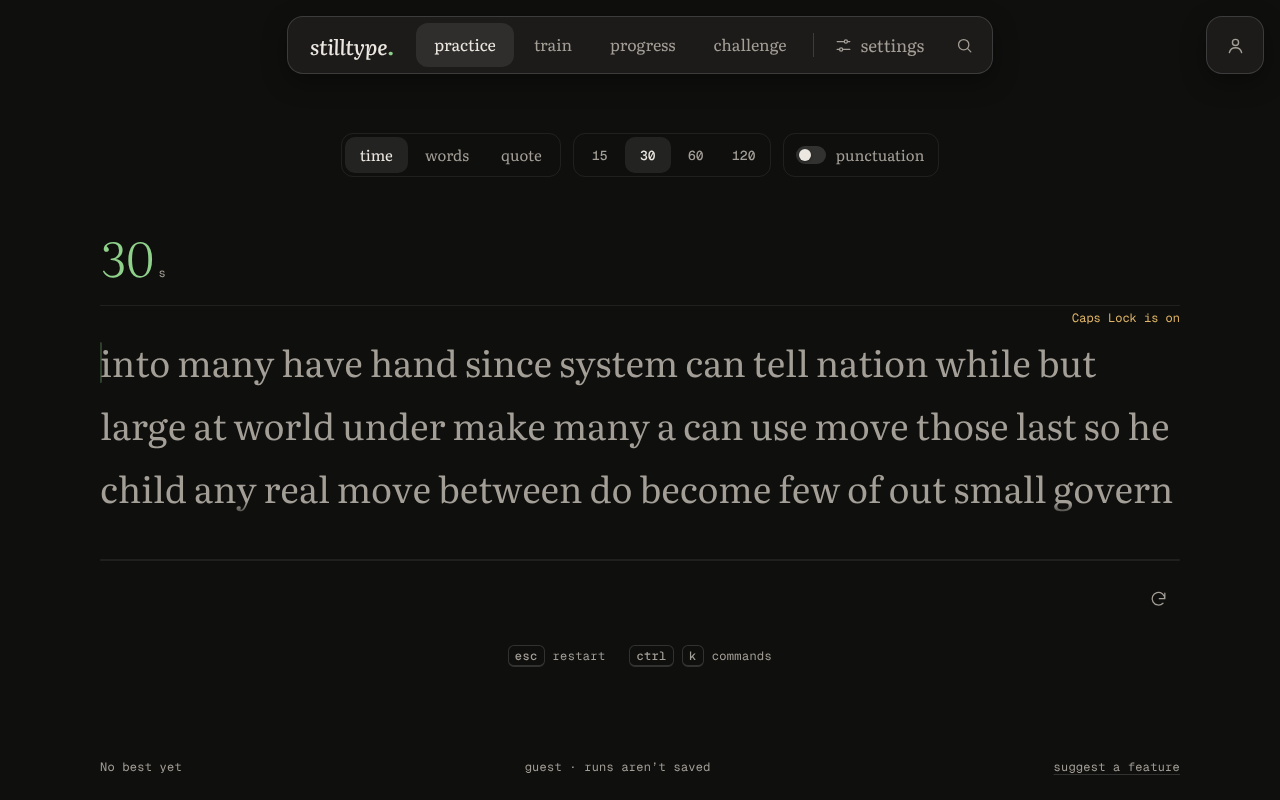
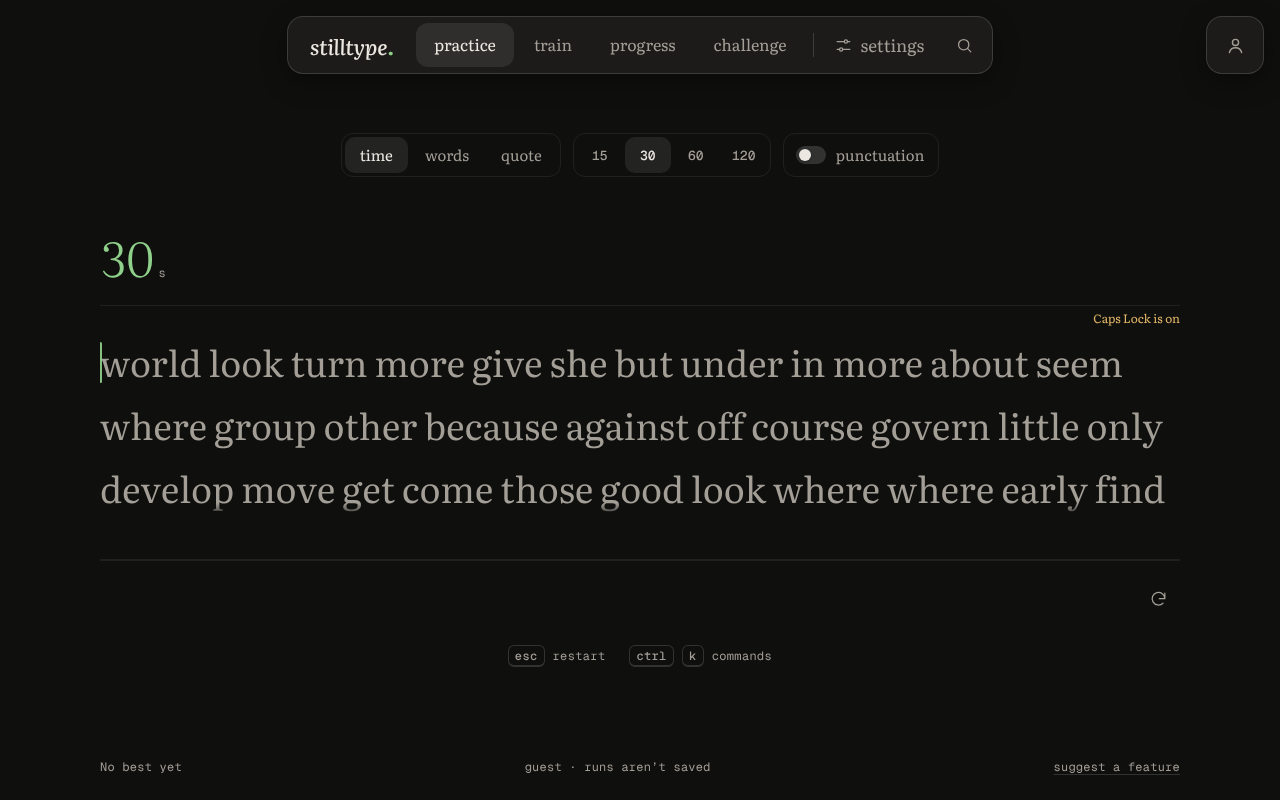
Set the Caps Lock warning in Literata and keep it still mid-run
The warning is a readable sentence, so it uses the serif family at the same
size; while a run is in progress it appears and leaves without a fade. The
spec only rewrites the committed screenshots when SCREENSHOTS is set.

Claude-Session: https://claude.ai/code/session_01SaBNo9RHRaTR8cCUjK1iLD

diff --git a/e2e/caps-lock-warning.spec.js b/e2e/caps-lock-warning.spec.js
@@ -17,6 +17,7 @@ test('shows while Caps Lock is on, stays during a run, hides once it is off', as
   await capsKey(page, 'keydown', true);
   await expect(warning).toBeVisible();
   await expect(warning).toHaveText('Caps Lock is on');
+  await expect(warning).toHaveCSS('font-family', /^"?Literata/);
   await expect(page.locator('#announcement')).toHaveText('Caps Lock is on');
   expect(await wrap.boundingBox()).toEqual(before);
 
@@ -25,6 +26,7 @@ test('shows while Caps Lock is on, stays during a run, hides once it is off', as
   await capsKey(page, 'keyup', true);
   await expect(warning).toBeVisible();
   await expect(warning).toHaveCSS('opacity', '1');
+  await expect(warning).toHaveCSS('transition-duration', '0s');
 
   await capsKey(page, 'keyup', false);
   await expect(warning).toBeHidden();
@@ -40,7 +42,12 @@ test('blurring the typing field hides the warning', async ({ page }) => {
   await expect(page.locator('#caps-warning')).toBeHidden();
 });
 
-test('screenshots', async ({ page }) => {
+// Committed docs are only rewritten on request (SCREENSHOTS=1); normal runs write to the test output dir.
+const shotPath = (testInfo, name) => (process.env.SCREENSHOTS
+  ? `docs/screenshots/caps-lock-warning/${name}.png`
+  : testInfo.outputPath(`${name}.png`));
+
+test('screenshots', async ({ page }, testInfo) => {
   await page.setViewportSize({ width: 1280, height: 800 });
   for (const scheme of ['dark', 'light']) {
     await page.emulateMedia({ colorScheme: scheme });
@@ -49,6 +56,6 @@ test('screenshots', async ({ page }) => {
     await capsKey(page, 'keydown', true);
     await expect(page.locator('#caps-warning')).toBeVisible();
     await page.waitForTimeout(300);
-    await page.screenshot({ path: `docs/screenshots/caps-lock-warning/warning-${scheme}.png` });
+    await page.screenshot({ path: shotPath(testInfo, `warning-${scheme}`) });
   }
 });

diff --git a/src/styles.css b/src/styles.css
@@ -885,14 +885,15 @@ body[data-running="true"] :is(.dock-zone, .corner, .practice-controls, .quote-op
 body[data-running="true"] :is(.dock, .corner, .practice-controls, .quote-options, .shortcut-row, .site-footer):not(:focus-within) { pointer-events: none; }
 
 /* Caps Lock warning: sits in the gap under the measure rule, so showing it moves nothing.
-   It is a warning, not chrome, so the running fade leaves it alone. */
+   It is a warning, not chrome, so the running fade leaves it alone; it is a readable
+   sentence, so it is set in Literata. */
 .caps-warning {
   position: absolute;
   top: calc(100% + var(--space-1));
   right: 0;
   margin: 0;
   color: var(--warning);
-  font: var(--text-mono)/1.5 var(--font-mono);
+  font: var(--text-mono)/1.5 var(--font-serif);
   white-space: nowrap;
   pointer-events: none;
   opacity: 0;
@@ -905,6 +906,9 @@ body[data-running="true"] :is(.dock, .corner, .practice-controls, .quote-options
   visibility: visible;
   transition: opacity var(--dur-base) var(--ease-out), visibility 0s;
 }
+
+/* Still run: next to the passage mid-run, the warning appears and leaves instantly. */
+body[data-running="true"] .caps-warning { transition: none; }
 
 /* ── Typing zone ────────────────────────────────────────────────────────── */
 
